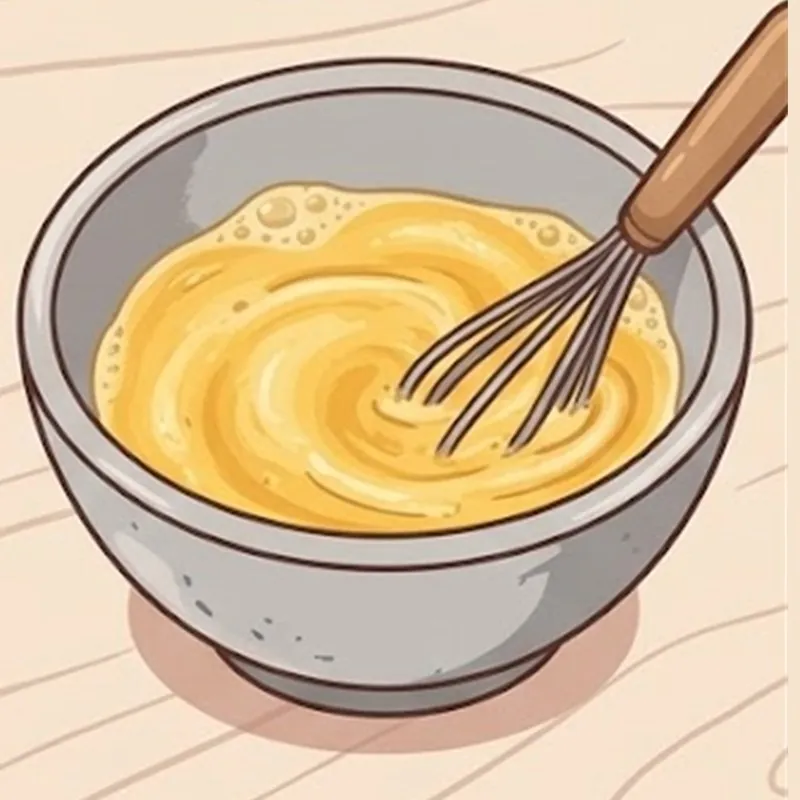
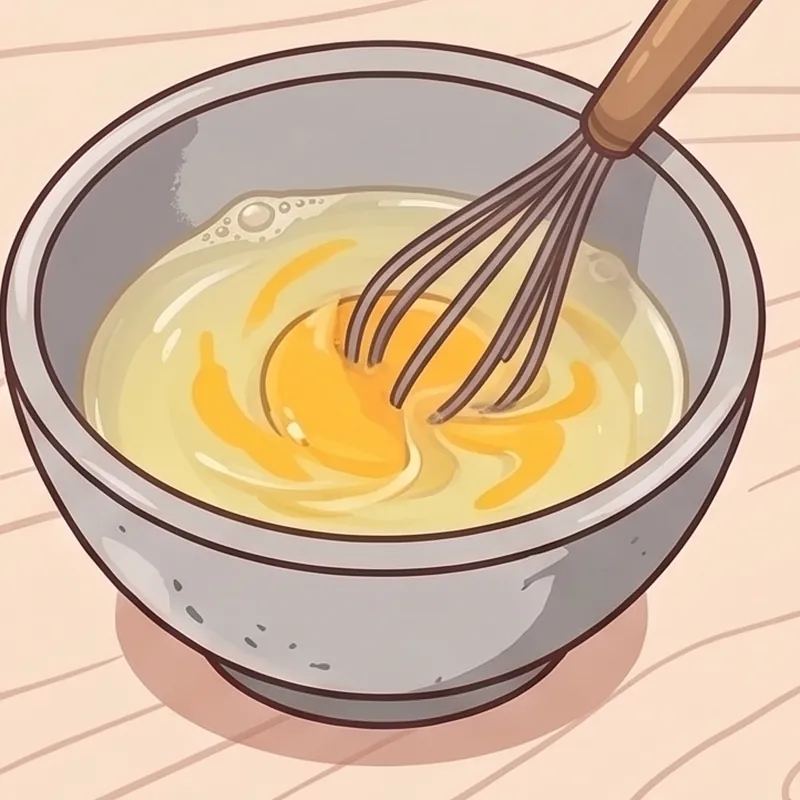
Replace stir cels with uncut grid; pour step becomes 5-cel fill animation
New user-provided grids keep bowl/pan size and background consistent, so
frames are registered on fixed anatomy (bowl foot, pan bbox) and cropped to
identical windows: the background holds still and only the contents change.

Stir now plays 1-6 linearly (SEQ [0..4], cel 6 on completion). The pour step
drops the CSS composite (tilting bowl overlay + stream + fill cover) for the
new 5-cel sequence scrubbed by fill progress relative to target, so both the
100% and 60% pours use the full animation range.

diff --git a/cook.html b/cook.html
@@ -100,10 +100,6 @@
   #scrStir .card { aspect-ratio: 1/1; }
 
   /* ---- 붓기: 계란물 볼이 팬 위에서 기울어짐 ---- */
-  .bowl { position: absolute; left: 6%; top: -4%; width: 36%; aspect-ratio: 1; border-radius: 999px; overflow: hidden;
-          border: 4px solid #fff; box-shadow: 0 8px 20px rgba(91,66,48,.28); z-index: 4;
-          transform-origin: 88% 82%; transition: transform .1s linear; pointer-events: none; }
-  .bowl img { width: 100%; height: 100%; object-fit: cover; }
 
   /* ---- 말기: 팬 안에서 계란이 말려 올라감 ---- */
   .eggArea { position: absolute; left: 23%; top: 12%; width: 54%; height: 44%; z-index: 2; pointer-events: none; }
@@ -265,11 +261,8 @@
     <div class="mid">
       <div class="pourCardWrap" id="pourTilt">
         <div class="card" id="pourCard">
-          <div class="img"><img data-src="assets/eggroll2-4.webp" alt=""></div>
-          <div class="panFillCover" id="pourCover"></div>
-          <div class="stream" id="pourStream" style="left:36%;top:19%;"></div>
-          <div class="bowl" id="pourBowl"><img data-src="assets/eggroll2-3.webp" alt=""></div>
-          <div class="tag" style="left:auto;right:12px;">볼이 폰 기울기를 따라와요 🥣</div>
+          <div class="img" id="pourWrap"><img id="pourF1" data-src="assets/pour-1.webp" alt=""><img id="pourF2" data-src="assets/pour-2.webp" alt=""><img id="pourF3" data-src="assets/pour-3.webp" alt=""><img id="pourF4" data-src="assets/pour-4.webp" alt=""><img id="pourF5" data-src="assets/pour-5.webp" alt=""></div>
+          <div class="tag" style="left:auto;right:12px;">기울일수록 콸콸 나와요 🥣</div>
         </div>
       </div>
       <div class="panel">
@@ -333,10 +326,7 @@
     <div class="mid">
       <div class="pourCardWrap" id="pour2Tilt">
         <div class="card" id="pour2Card">
-          <div class="img"><img data-src="assets/eggroll2-4.webp" alt=""></div>
-          <div class="panFillCover" id="pour2Cover"></div>
-          <div class="stream" id="pour2Stream" style="left:36%;top:19%;"></div>
-          <div class="bowl" id="pour2Bowl"><img data-src="assets/eggroll2-3.webp" alt=""></div>
+          <div class="img" id="pour2Wrap"><img id="pour2F1" data-src="assets/pour-1.webp" alt=""><img id="pour2F2" data-src="assets/pour-2.webp" alt=""><img id="pour2F3" data-src="assets/pour-3.webp" alt=""><img id="pour2F4" data-src="assets/pour-4.webp" alt=""><img id="pour2F5" data-src="assets/pour-5.webp" alt=""></div>
           <div class="tag" style="left:auto;right:12px;">볼이 폰 기울기를 따라와요 🥣</div>
         </div>
       </div>
@@ -550,8 +540,8 @@
     var cum = 0, doneFlag = false, lastBubble = 0, speed = 0;
     var card = $('stirCard'), wrap = $('stirWrap'), fill = $('stirFill'), val = $('stirVal'), pill = $('stirPill');
     var frames = [$('stirF1'), $('stirF2'), $('stirF3'), $('stirF4'), $('stirF5'), $('stirF6')];
-    // 셀 순서: 1↔2 왕복 → 3↔4 왕복 → 5 → 완성 6
-    var SEQ = [0, 1, 0, 1, 2, 3, 2, 3, 4];
+    // 셀 순서: 1→2→3→4→5 진행, 완성 6
+    var SEQ = [0, 1, 2, 3, 4];
     var STEP = TARGET / SEQ.length; // 프레임 한 컷당 회전수
     var curFrame = 0;
     function showFrame(i) {
@@ -619,8 +609,15 @@
 
   // ================= 붓기 (2단계 & 4단계 전반) =================
   function makePour(ids, target, nextId, stampEmoji) {
-    var bowl = $(ids.bowl), card = $(ids.card), cover = $(ids.cover), stream = $(ids.stream);
+    var card = $(ids.card), wrap = $(ids.wrap);
     var knob = $(ids.knob), zone = $(ids.zone), val = $(ids.val), fillVal = $(ids.fillVal), fillBar = $(ids.fillBar), pill = $(ids.pill);
+    var frames = ids.frames.map(function (f) { return $(f); });
+    var curFrame = 0;
+    function showFrame(i) {
+      if (i === curFrame) return;
+      curFrame = i;
+      for (var k = 0; k < frames.length; k++) frames[k].style.opacity = k === i ? '1' : '0';
+    }
     var ZLO = 25, ZHI = 55, MAXA = 90;
     var fillPct = 0, doneFlag = false, baseTilt = null, baseSamples = [], lastT = null, dropAcc = 0;
     var touchDrag = null, touchAngle = 0;
@@ -630,21 +627,18 @@
       val.textContent = a.toFixed(0) + '°' + (a >= ZLO && a <= ZHI ? ' · 딱 좋아요!' : '');
       knob.style.left = (a / MAXA * 100) + '%';
       zone.classList.toggle('hot', a >= ZLO && a <= ZHI);
-      bowl.style.transform = 'rotate(' + (a * 0.9) + 'deg)'; // 볼이 팬 쪽으로 기울어짐
+      wrap.style.transform = 'rotate(' + (a * 0.06) + 'deg)'; // 살짝 기우는 촉감만
       var pouring = a >= ZLO;
       var rate = pouring ? clamp((a - ZLO + 6) / (ZHI - ZLO + 6), 0.15, 1.4) : 0;
       if (a > ZHI + 12) rate = 1.7;
-      // 계란물 줄기
-      stream.style.opacity = pouring ? 1 : 0;
-      stream.style.height = pouring ? '46%' : '0';
-      stream.style.width = (8 + rate * 12) + 'px';
       if (lastT !== null && pouring) {
         fillPct = clamp(fillPct + rate * (t - lastT) * 26, 0, 100);
         dropAcc += (t - lastT) * rate;
         if (dropAcc > 0.16) { dropAcc = 0; drop(); sfx('pourLoop'); }
       }
       lastT = t;
-      cover.style.opacity = 1 - fillPct / 100;
+      // 채움 진행도로 1~4컷 스크럽 (5컷은 완성 전용)
+      showFrame(Math.min(3, Math.floor(fillPct / target * 4)));
       fillVal.textContent = fillPct.toFixed(0) + '%';
       fillBar.style.width = fillPct + '%';
       pill.textContent = !pouring ? '초록 구간까지 기울여요 🥣'
@@ -652,8 +646,8 @@
         : a > ZHI ? '살짝만 낮춰요~' : '잘 붓고 있어요! 🍳';
       if (fillPct >= target && !doneFlag) {
         doneFlag = true;
-        bowl.style.transform = 'rotate(0deg)';
-        stream.style.opacity = 0;
+        showFrame(4); // 완성: 팬 가득 + 빈 볼
+        wrap.style.transform = '';
         card.animate([{ transform: 'scale(1)' }, { transform: 'scale(1.05)' }, { transform: 'scale(1)' }], { duration: 300 });
         setTimeout(function () { stepClear(stampEmoji, nextId); }, 350);
       }
@@ -701,11 +695,15 @@
         if (baseSamples.length < 30) { baseSamples.push(s.tiltDeg); if (baseSamples.length === 30) { var sum = 0; baseSamples.forEach(function (x) { sum += x; }); baseTilt = sum / 30; } return; }
         setAngle(s.tiltDeg - baseTilt, s.t);
       },
-      reset: function () { fillPct = 0; doneFlag = false; if (loopTimer) { clearInterval(loopTimer); loopTimer = null; } }
+      reset: function () {
+        fillPct = 0; doneFlag = false; curFrame = 0; wrap.style.transform = '';
+        for (var k = 0; k < frames.length; k++) frames[k].style.opacity = k === 0 ? '1' : '0';
+        if (loopTimer) { clearInterval(loopTimer); loopTimer = null; }
+      }
     };
   }
-  controllers.scrPour = makePour({ bowl: 'pourBowl', card: 'pourCard', cover: 'pourCover', stream: 'pourStream', knob: 'pourKnob', zone: 'pourZone', val: 'pourVal', fillVal: 'pourFillVal', fillBar: 'pourFillBar', pill: 'pourPill' }, 100, 'scrRoll', '🥣');
-  controllers.scrPour2 = makePour({ bowl: 'pour2Bowl', card: 'pour2Card', cover: 'pour2Cover', stream: 'pour2Stream', knob: 'pour2Knob', zone: 'pour2Zone', val: 'pour2Val', fillVal: 'pour2FillVal', fillBar: 'pour2FillBar', pill: 'pour2Pill' }, 60, 'scrRoll2', '🥣');
+  controllers.scrPour = makePour({ card: 'pourCard', wrap: 'pourWrap', frames: ['pourF1', 'pourF2', 'pourF3', 'pourF4', 'pourF5'], knob: 'pourKnob', zone: 'pourZone', val: 'pourVal', fillVal: 'pourFillVal', fillBar: 'pourFillBar', pill: 'pourPill' }, 100, 'scrRoll', '🥣');
+  controllers.scrPour2 = makePour({ card: 'pour2Card', wrap: 'pour2Wrap', frames: ['pour2F1', 'pour2F2', 'pour2F3', 'pour2F4', 'pour2F5'], knob: 'pour2Knob', zone: 'pour2Zone', val: 'pour2Val', fillVal: 'pour2FillVal', fillBar: 'pour2FillBar', pill: 'pour2Pill' }, 60, 'scrRoll2', '🥣');
 
   // ================= 말기 (3단계 & 4단계 후반) =================
   function makeRoll(ids, cells, nextId) {
